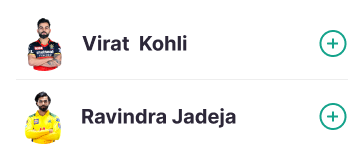
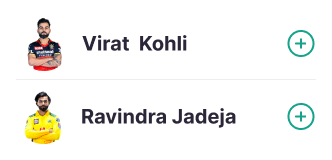
Fix images and font size of section-2 in landing page

diff --git a/landing-page/src/landing-page/section-2/section-2-vertical-tile.tsx b/landing-page/src/landing-page/section-2/section-2-vertical-tile.tsx
@@ -3,8 +3,8 @@ import { styled } from '@mui/material/styles';
 
 const TitleBox = styled(Box)({
     fontWeight: 700, 
-    fontSize: '24px', 
-    lineHeight: '30px',
+    fontSize: '1.8rem', 
+    lineHeight: '1.375rem',
     color: '#FFFFFF',
     textAlign: 'left',
     marginTop: '20px',
@@ -12,8 +12,8 @@ const TitleBox = styled(Box)({
 
 const DescriptionBox = styled(Box)({
     fontWeight: 400, 
-    fontSize: '16px', 
-    lineHeight: '24px',
+    fontSize: '1.1rem', 
+    lineHeight: '1.375rem',
     color: '#E3E3E3',
     textAlign: 'left',
     marginTop: '20px',
@@ -25,7 +25,7 @@ export default function Section2VerticalTile(
     description: string}) 
 {
     return(
-        <Box py={{xs: 3, md: 5}} px={{xs: 2, md: 4}}>
+        <Box py={{xs: 3, md: 5}} px={{xs: 2, md: 4}} sx={{width: '33%'}}>
             <img 
             src={props.imageUrl} 
             alt={props.title}

diff --git a/landing-page/public/index.html b/landing-page/public/index.html
@@ -9,6 +9,10 @@
       name="description"
       content="Swoop: Fantasy Cricket on Solana"
     />
+    <link rel='preconnect' href='https://fonts.gstatic.com' crossorigin>
+    <link rel='preload' as='style' href='https://fonts.googleapis.com/css2?family=Open+Sans|Roboto:wght@300&display=swap'>
+    <link rel='stylesheet' href='https://fonts.googleapis.com/css2?family=Open+Sans|Roboto:wght@700&display=swap'>
+  
     <link rel="apple-touch-icon" href="%PUBLIC_URL%/images/ball_dark_icon.png" />
     <!--
       manifest.json provides metadata used when your web app is installed on a

diff --git a/landing-page/src/landing-page/section-2/section-2-horizontal-tile.tsx b/landing-page/src/landing-page/section-2/section-2-horizontal-tile.tsx
@@ -4,8 +4,8 @@ import { styled } from '@mui/material/styles';
 
 const TitleBox = styled(Box)({
     fontWeight: 700, 
-    fontSize: '18px', 
-    lineHeight: '24px',
+    fontSize: '1.5rem', 
+    lineHeight: '1.375rem',
     color: '#FFFFFF',
     textAlign: 'left',
     marginTop: '5px',
@@ -14,8 +14,8 @@ const TitleBox = styled(Box)({
 
 const DescriptionBox = styled(Box)({
     fontWeight: 400, 
-    fontSize: '12px', 
-    lineHeight: '18px',
+    fontSize: '1.0rem', 
+    lineHeight: '1.375rem',
     color: '#E3E3E3',
     textAlign: 'left',
     marginTop: '5px',

diff --git a/landing-page/src/landing-page/section-2/index.tsx b/landing-page/src/landing-page/section-2/index.tsx
@@ -19,9 +19,9 @@ export default function Section2() {
         'Join Contests',
     ];
     const descriptions = [
-        'Choose an upcoming match that you want to play',
+        'Choose an upcoming IPL match to participate',
         'Use your skills to pick the right players',
-        'Choose between different contests and win money',
+        'Choose between different contests and swoop your winnings in crypto',
     ];
     return (
         <Box 

diff --git a/landing-page/src/index.tsx b/landing-page/src/index.tsx
@@ -3,10 +3,6 @@ import ReactDOM from 'react-dom';
 import './index.css';
 import App from './App';
 import reportWebVitals from './reportWebVitals';
-import '@fontsource/roboto/300.css';
-import '@fontsource/roboto/400.css';
-import '@fontsource/roboto/500.css';
-import '@fontsource/roboto/700.css';
 
 ReactDOM.render(
   <React.StrictMode>
